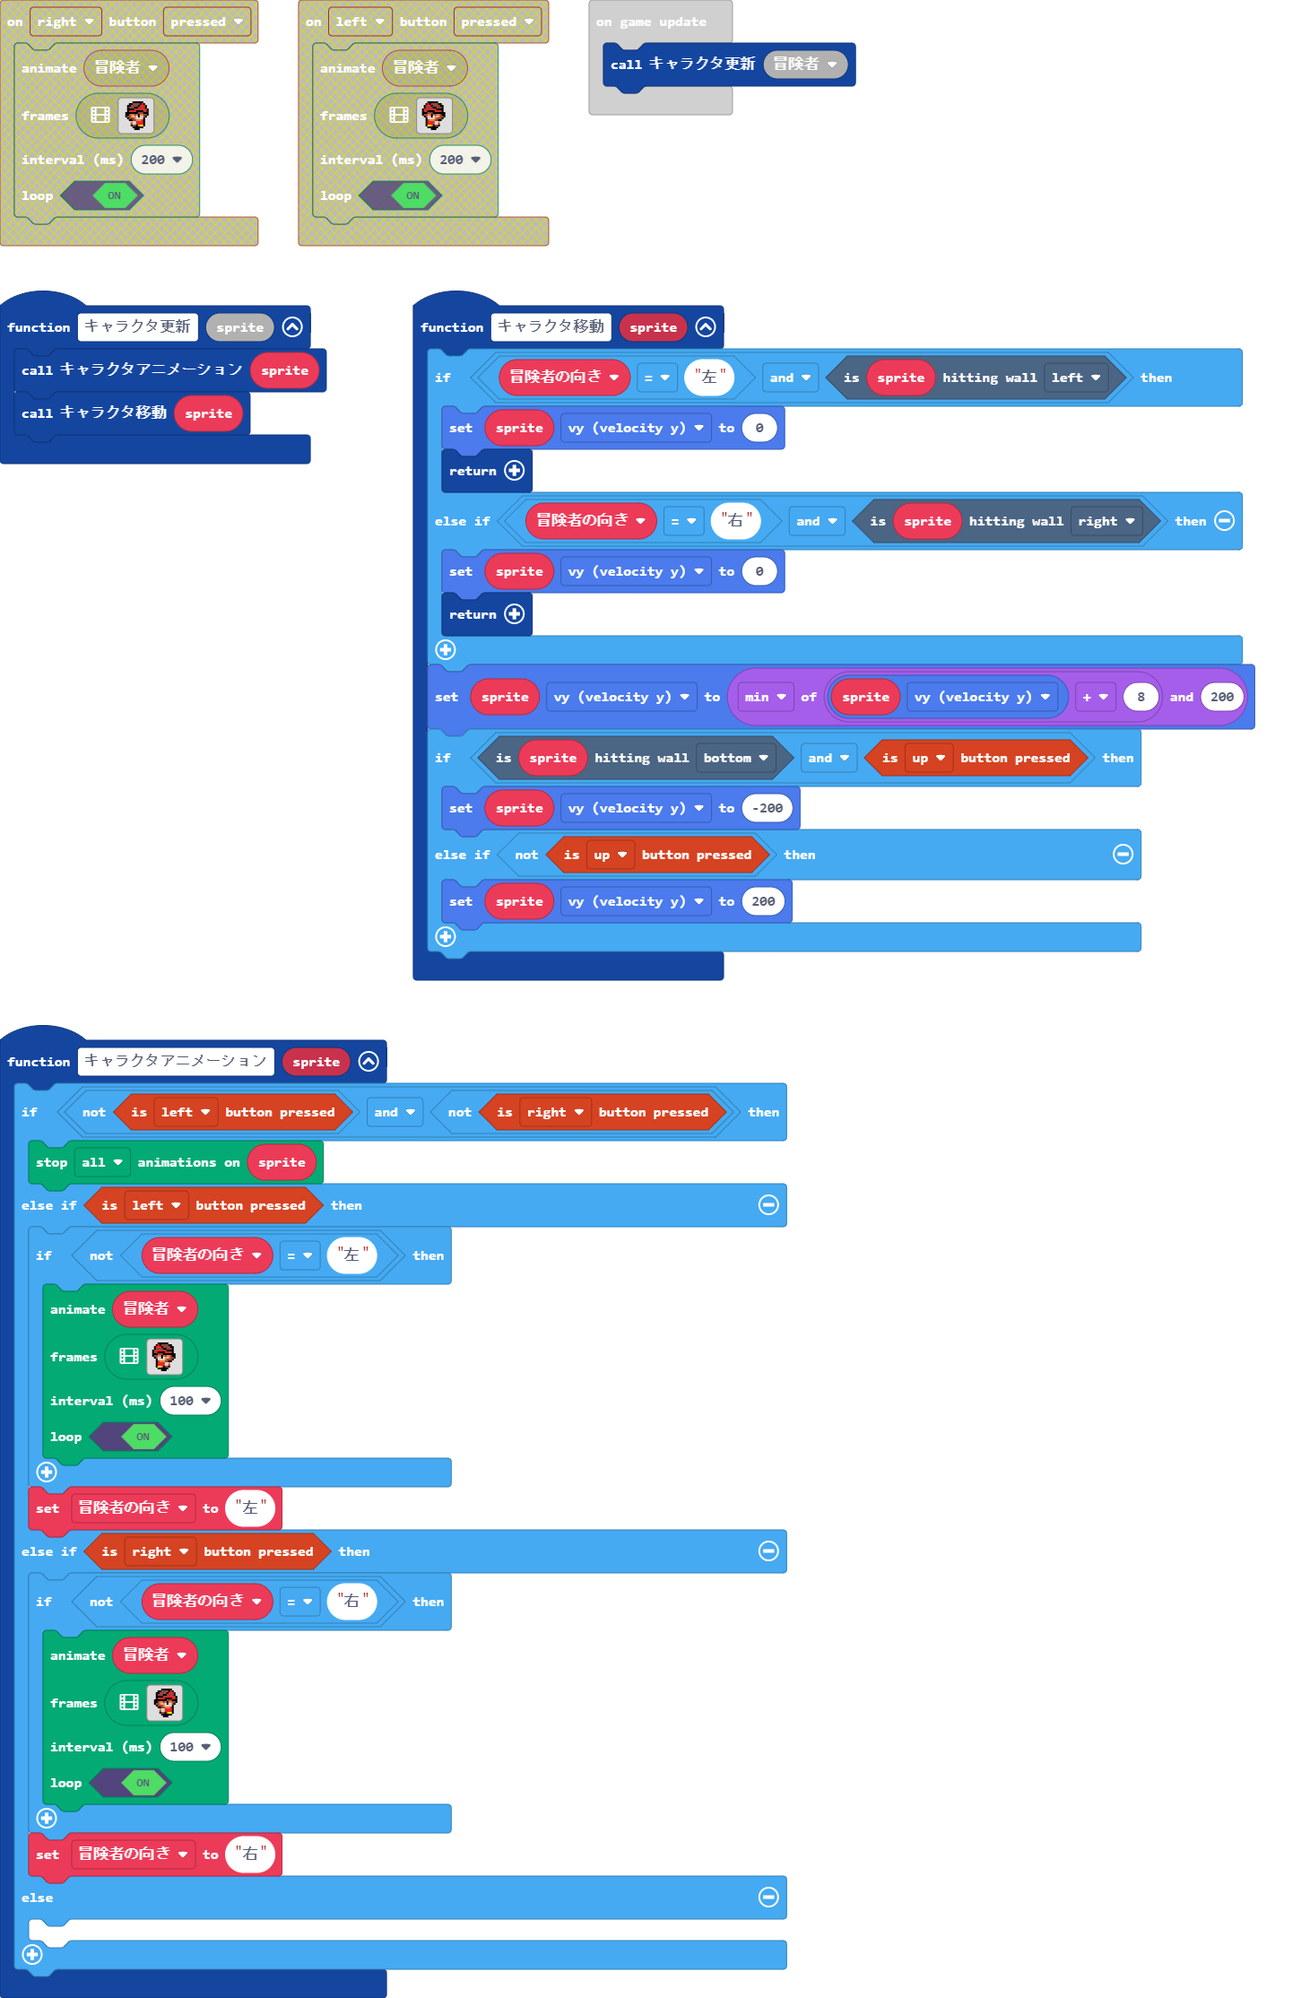
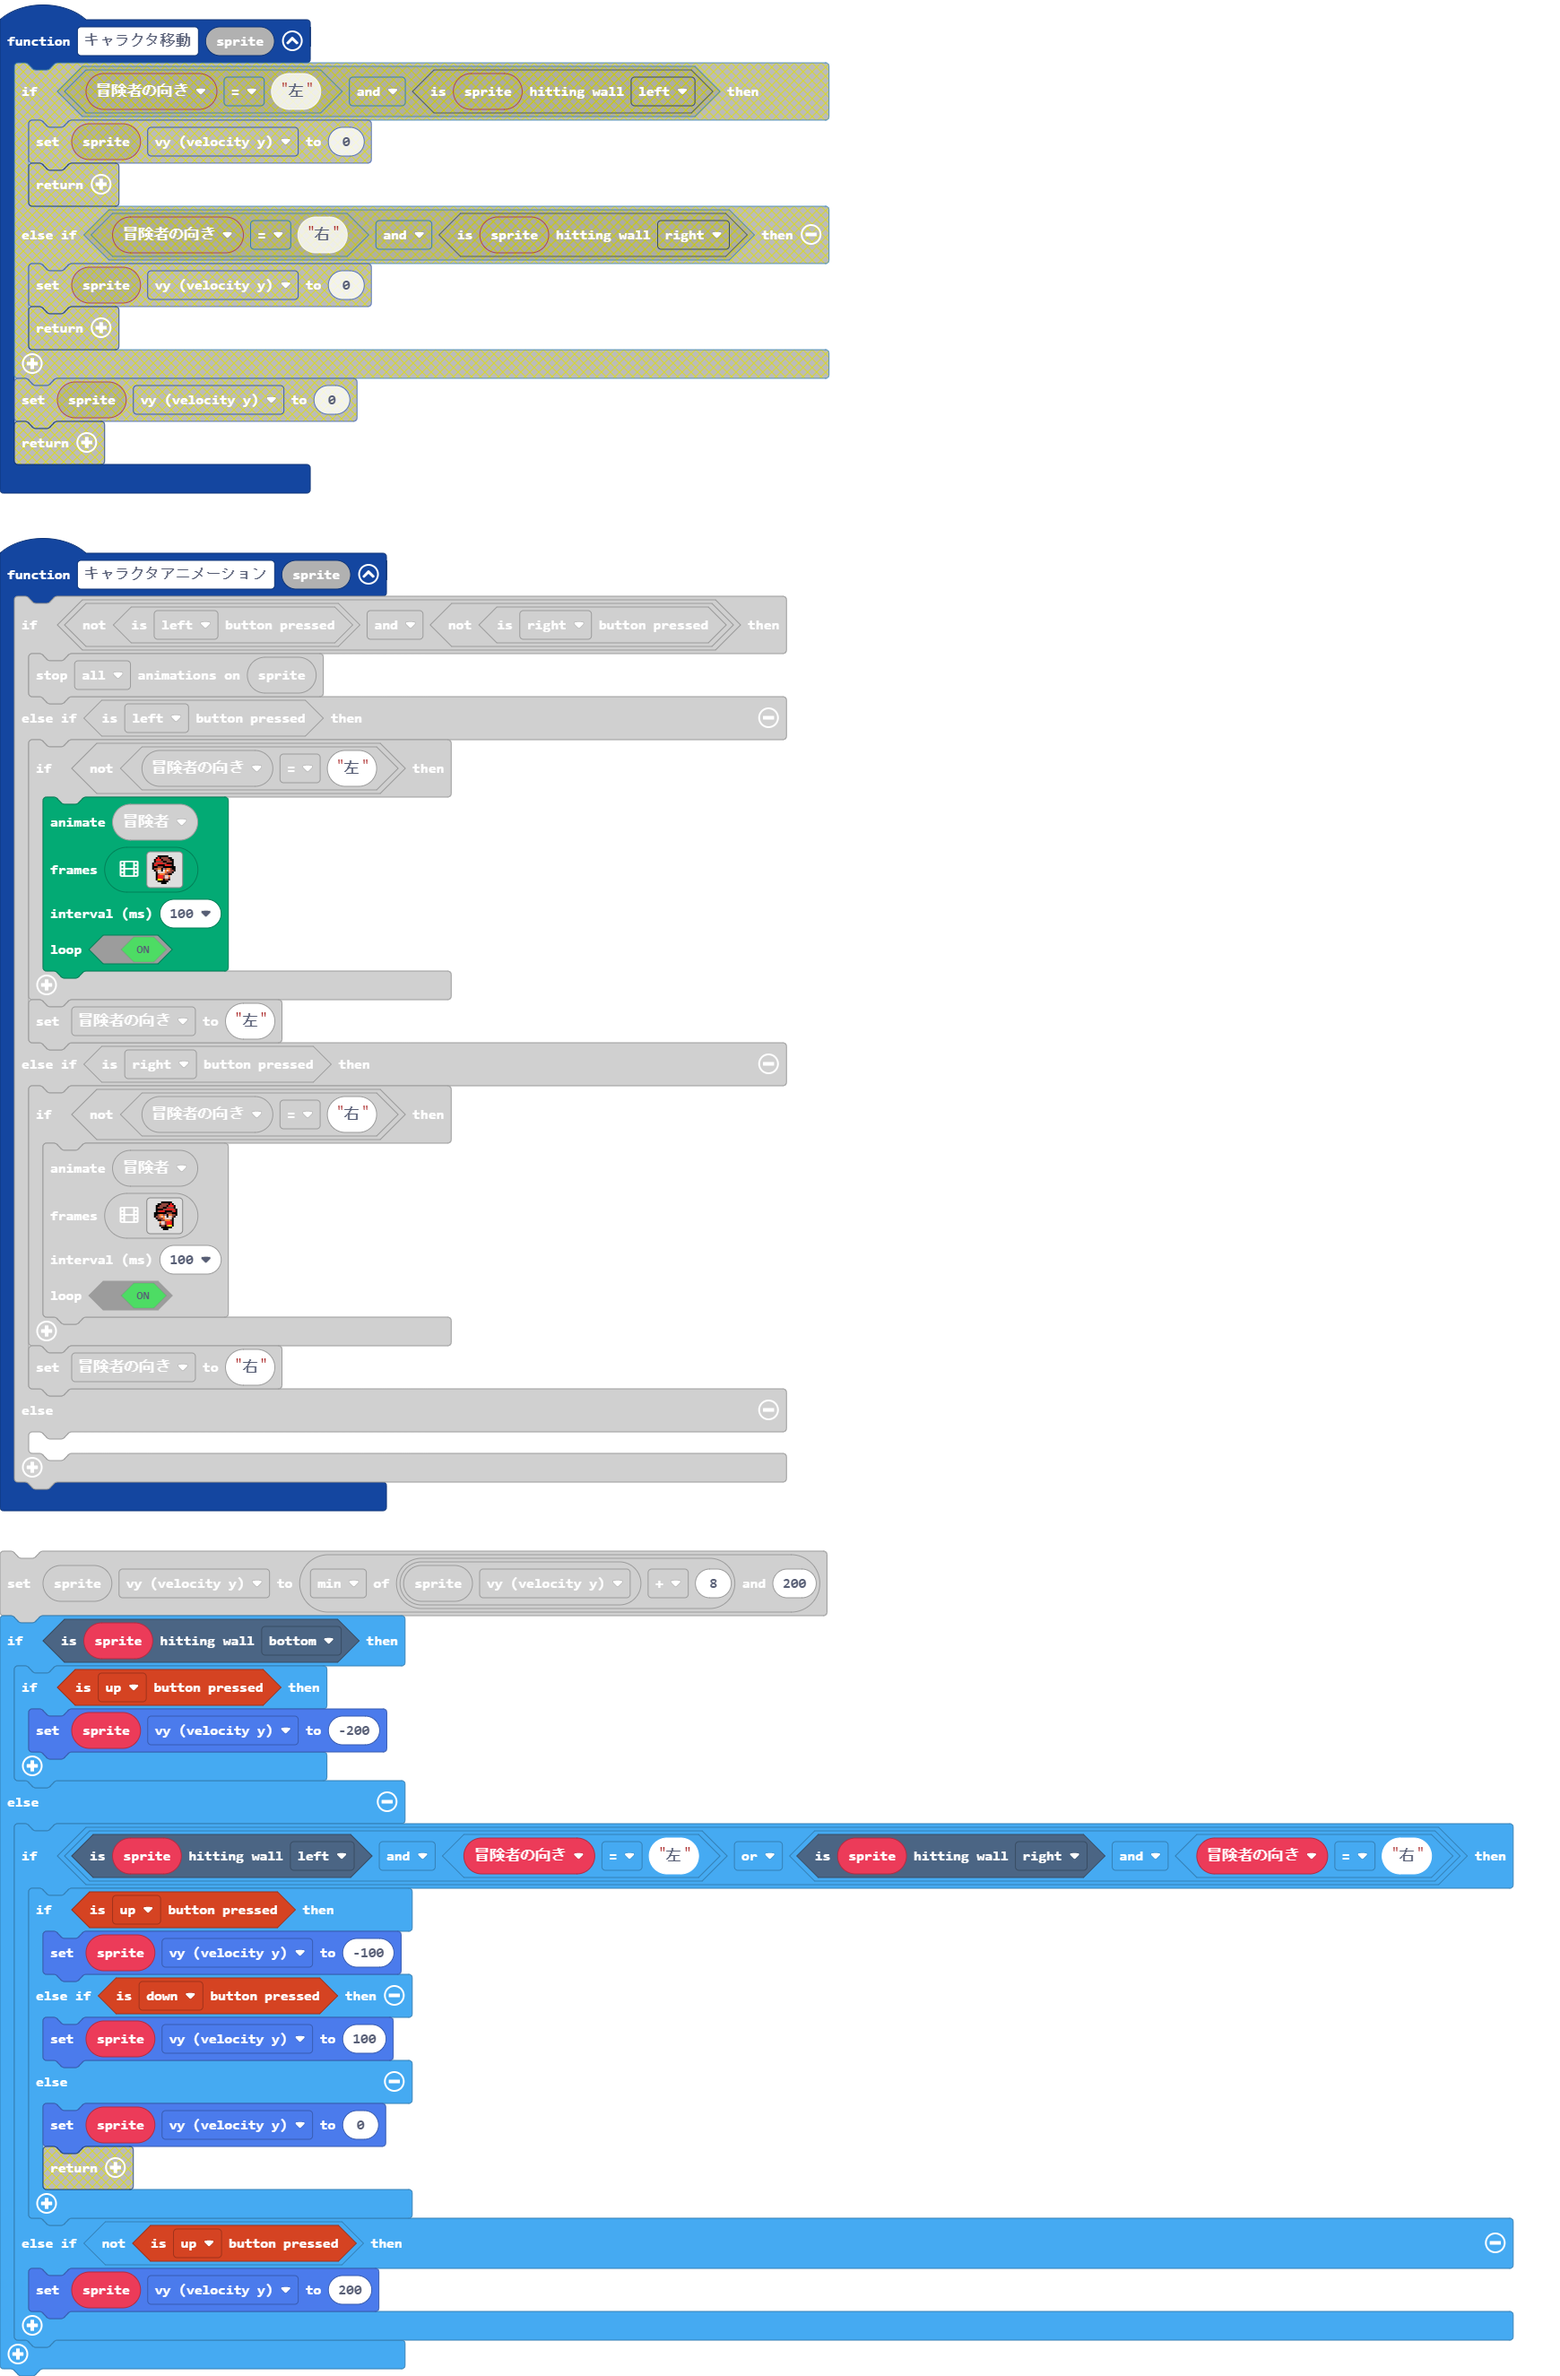
Update main.blocks, main.ts, images.g.jres, images.g.ts

diff --git a/images.g.ts b/images.g.ts
@@ -441,6 +441,144 @@ namespace myImages {
 . . f f f f f f f f f f . . . . 
 . . . f f f . . . f f . . . . . 
 `];
+            case "anim7":return [img`
+. . . . f f f f f f . . . . . . 
+. . . f 2 f e e e e f f . . . . 
+. . f 2 2 2 f e e e e f f . . . 
+. . f e e e e f f e e e f . . . 
+. f e 2 2 2 2 e e f f f f . . . 
+. f 2 e f f f f 2 2 2 e f . . . 
+. f f f e e e f f f f f f f . . 
+. f e e 4 4 f b e 4 4 e f f . . 
+. . f e d d f 1 4 d 4 e e f . . 
+. . . f d d d d 4 e e e f . . . 
+. . . f e 4 4 4 e e f f . . . . 
+. . . f 2 2 2 e d d 4 . . . . . 
+. . . f 2 2 2 e d d e . . . . . 
+. . . f 5 5 4 f e e f . . . . . 
+. . . . f f f f f f . . . . . . 
+. . . . . . f f f . . . . . . . 
+`, img`
+. . . . . . . . . . . . . . . . 
+. . . . f f f f f f . . . . . . 
+. . . f 2 f e e e e f f . . . . 
+. . f 2 2 2 f e e e e f f . . . 
+. . f e e e e f f e e e f . . . 
+. f e 2 2 2 2 e e f f f f . . . 
+. f 2 e f f f f 2 2 2 e f . . . 
+. f f f e e e f f f f f f f . . 
+. f e e 4 4 f b e 4 4 e f f . . 
+. . f e d d f 1 4 d 4 e e f . . 
+. . . f d d d e e e e e f . . . 
+. . . f e 4 e d d 4 f . . . . . 
+. . . f 2 2 e d d e f . . . . . 
+. . f f 5 5 f e e f f f . . . . 
+. . f f f f f f f f f f . . . . 
+. . . f f f . . . f f . . . . . 
+`, img`
+. . . . f f f f f f . . . . . . 
+. . . f 2 f e e e e f f . . . . 
+. . f 2 2 2 f e e e e f f . . . 
+. . f e e e e f f e e e f . . . 
+. f e 2 2 2 2 e e f f f f . . . 
+. f 2 e f f f f 2 2 2 e f . . . 
+. f f f e e e f f f f f f f . . 
+. f e e 4 4 f b e 4 4 e f f . . 
+. . f e d d f 1 4 d 4 e e f . . 
+. . . f d d d d 4 e e e f . . . 
+. . . f e 4 4 4 e e f f . . . . 
+. . . f 2 2 2 e d d 4 . . . . . 
+. . . f 2 2 2 e d d e . . . . . 
+. . . f 5 5 4 f e e f . . . . . 
+. . . . f f f f f f . . . . . . 
+. . . . . . f f f . . . . . . . 
+`, img`
+. . . . . . . . . . . . . . . . 
+. . . . f f f f f f . . . . . . 
+. . . f 2 f e e e e f f . . . . 
+. . f 2 2 2 f e e e e f f . . . 
+. . f e e e e f f e e e f . . . 
+. f e 2 2 2 2 e e f f f f . . . 
+. f 2 e f f f f 2 2 2 e f . . . 
+. f f f e e e f f f f f f f . . 
+. f e e 4 4 f b e 4 4 e f f . . 
+. . f e d d f 1 4 d 4 e e f . . 
+. . . f d d d d 4 e e e f . . . 
+. . . f e 4 4 4 e d d 4 . . . . 
+. . . f 2 2 2 2 e d d e . . . . 
+. . f f 5 5 4 4 f e e f . . . . 
+. . f f f f f f f f f f . . . . 
+. . . f f f . . . f f . . . . . 
+`];
+            case "anim8":return [img`
+. . . . f f f f f f . . . . . . 
+. . . f 2 f e e e e f f . . . . 
+. . f 2 2 2 f e e e e f f . . . 
+. . f e e e e f f e e e f . . . 
+. f e 2 2 2 2 e e f f f f . . . 
+. f 2 e f f f f 2 2 2 e f . . . 
+. f f f e e e f f f f f f f . . 
+. f e e 4 4 f b e 4 4 e f f . . 
+. . f e d d f 1 4 d 4 e e f . . 
+. . . f d d d d 4 e e e f . . . 
+. . . f e 4 4 4 e e f f . . . . 
+. . . f 2 2 2 e d d 4 . . . . . 
+. . . f 2 2 2 e d d e . . . . . 
+. . . f 5 5 4 f e e f . . . . . 
+. . . . f f f f f f . . . . . . 
+. . . . . . f f f . . . . . . . 
+`, img`
+. . . . . . . . . . . . . . . . 
+. . . . f f f f f f . . . . . . 
+. . . f 2 f e e e e f f . . . . 
+. . f 2 2 2 f e e e e f f . . . 
+. . f e e e e f f e e e f . . . 
+. f e 2 2 2 2 e e f f f f . . . 
+. f 2 e f f f f 2 2 2 e f . . . 
+. f f f e e e f f f f f f f . . 
+. f e e 4 4 f b e 4 4 e f f . . 
+. . f e d d f 1 4 d 4 e e f . . 
+. . . f d d d e e e e e f . . . 
+. . . f e 4 e d d 4 f . . . . . 
+. . . f 2 2 e d d e f . . . . . 
+. . f f 5 5 f e e f f f . . . . 
+. . f f f f f f f f f f . . . . 
+. . . f f f . . . f f . . . . . 
+`, img`
+. . . . f f f f f f . . . . . . 
+. . . f 2 f e e e e f f . . . . 
+. . f 2 2 2 f e e e e f f . . . 
+. . f e e e e f f e e e f . . . 
+. f e 2 2 2 2 e e f f f f . . . 
+. f 2 e f f f f 2 2 2 e f . . . 
+. f f f e e e f f f f f f f . . 
+. f e e 4 4 f b e 4 4 e f f . . 
+. . f e d d f 1 4 d 4 e e f . . 
+. . . f d d d d 4 e e e f . . . 
+. . . f e 4 4 4 e e f f . . . . 
+. . . f 2 2 2 e d d 4 . . . . . 
+. . . f 2 2 2 e d d e . . . . . 
+. . . f 5 5 4 f e e f . . . . . 
+. . . . f f f f f f . . . . . . 
+. . . . . . f f f . . . . . . . 
+`, img`
+. . . . . . . . . . . . . . . . 
+. . . . f f f f f f . . . . . . 
+. . . f 2 f e e e e f f . . . . 
+. . f 2 2 2 f e e e e f f . . . 
+. . f e e e e f f e e e f . . . 
+. f e 2 2 2 2 e e f f f f . . . 
+. f 2 e f f f f 2 2 2 e f . . . 
+. f f f e e e f f f f f f f . . 
+. f e e 4 4 f b e 4 4 e f f . . 
+. . f e d d f 1 4 d 4 e e f . . 
+. . . f d d d d 4 e e e f . . . 
+. . . f e 4 4 4 e d d 4 . . . . 
+. . . f 2 2 2 2 e d d e . . . . 
+. . f f 5 5 4 4 f e e f . . . . 
+. . f f f f f f f f f f . . . . 
+. . . f f f . . . f f . . . . . 
+`];
         }
         return null;
     })

diff --git a/main.ts b/main.ts
@@ -3,18 +3,23 @@ function キャラクタ更新 (sprite: Sprite) {
     キャラクタ移動(sprite)
 }
 function キャラクタ移動 (sprite: Sprite) {
-    if (冒険者の向き == "左" && sprite.isHittingTile(CollisionDirection.Left)) {
-        sprite.vy = 0
-        return
-    } else if (冒険者の向き == "右" && sprite.isHittingTile(CollisionDirection.Right)) {
-        sprite.vy = 0
-        return
-    }
     sprite.vy = Math.min(sprite.vy + 8, 200)
-    if (sprite.isHittingTile(CollisionDirection.Bottom) && controller.up.isPressed()) {
-        sprite.vy = -200
-    } else if (!(controller.up.isPressed())) {
-        sprite.vy = 200
+    if (sprite.isHittingTile(CollisionDirection.Bottom)) {
+        if (controller.up.isPressed()) {
+            sprite.vy = -200
+        }
+    } else {
+        if (sprite.isHittingTile(CollisionDirection.Left) && 冒険者の向き == "左" || sprite.isHittingTile(CollisionDirection.Right) && 冒険者の向き == "右") {
+            if (controller.up.isPressed()) {
+                sprite.vy = -100
+            } else if (controller.down.isPressed()) {
+                sprite.vy = 100
+            } else {
+                sprite.vy = 0
+            }
+        } else if (!(controller.up.isPressed())) {
+            sprite.vy = 200
+        }
     }
 }
 function キャラクタアニメーション (sprite: Sprite) {
